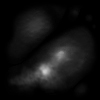
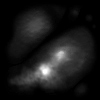
updated blending

Changed region(s): [[0.33, 0.45, 0.69, 0.81], [0.27, 0.78, 0.3, 0.81]]

diff --git a/SFML_BASIC/main.cpp b/SFML_BASIC/main.cpp
@@ -41,16 +41,17 @@ int main()
 	sf::Texture grass; //texture object called car
 	sf::Texture rock; //texture object called car
 
+	
 	glTexParameteri(GL_TEXTURE_2D, GL_TEXTURE_MAG_FILTER, GL_LINEAR);
 	glTexParameteri(GL_TEXTURE_2D, GL_TEXTURE_MIN_FILTER, GL_LINEAR);
+	glTexParameteri(GL_TEXTURE_2D, GL_TEXTURE_WRAP_S, GL_REPEAT);
+	glTexParameteri(GL_TEXTURE_2D, GL_TEXTURE_WRAP_T, GL_REPEAT);
 
 	glBlendFunc(GL_ONE, GL_ONE_MINUS_SRC_ALPHA);
 
 	sea.loadFromFile("../water.png");
 	grass.loadFromFile("../grass.png");
 	rock.loadFromFile("../snowyrock.png");
-
-
 
 	// create the window
 	sf::RenderWindow App(sf::VideoMode(width, height), "OpenGL", sf::Style::Default, sf::ContextSettings(24));

diff --git a/SFML_BASIC/Terrain.cpp b/SFML_BASIC/Terrain.cpp
@@ -86,7 +86,7 @@ void Terrain::calculateNormal(vector normalsVec, vector point1, vector point2, v
 //you will need to modify this significantly to pull height from a map
 float  Terrain::getHeight(int x, int y){
 	//for the sample we will calculate height based on distance form origin
-	float dist = pixelArray[y][x] * m_HEIGHT * m_HEIGHT;
+	float dist = pixelArray[y][x] * m_heightMultiplier;
 	return dist;
 }
 
@@ -128,7 +128,7 @@ void Terrain::Init(){
 			front  +-----+
 			left   right
 			*/			
-
+			
 			//tri1
 			setPoint(colors[vertexNum], 1.f, 1.f, 1.f);
 			setTexCoords(texCoords[vertexNum], (float)i / (gridWidth - 2), (float)j / (gridDepth - 2));

diff --git a/SFML_BASIC/Terrain.h b/SFML_BASIC/Terrain.h
@@ -20,7 +20,7 @@ class Terrain
 	sf::Image image;
 	sf::Color color;
 
-	const float m_HEIGHT = 8;
+	const float m_heightMultiplier = 52;
 	float pixelArray[100][100];
 
 	float getHeight(int x, int y);
